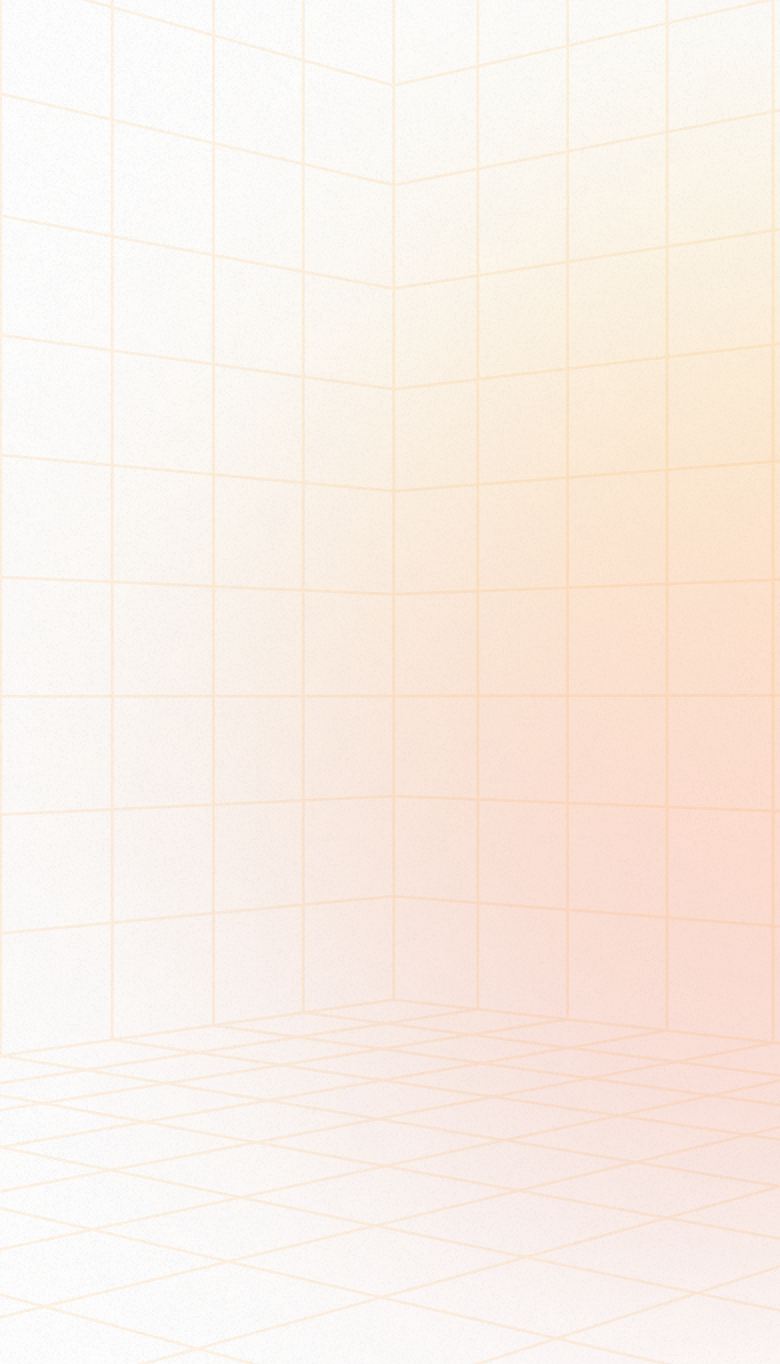
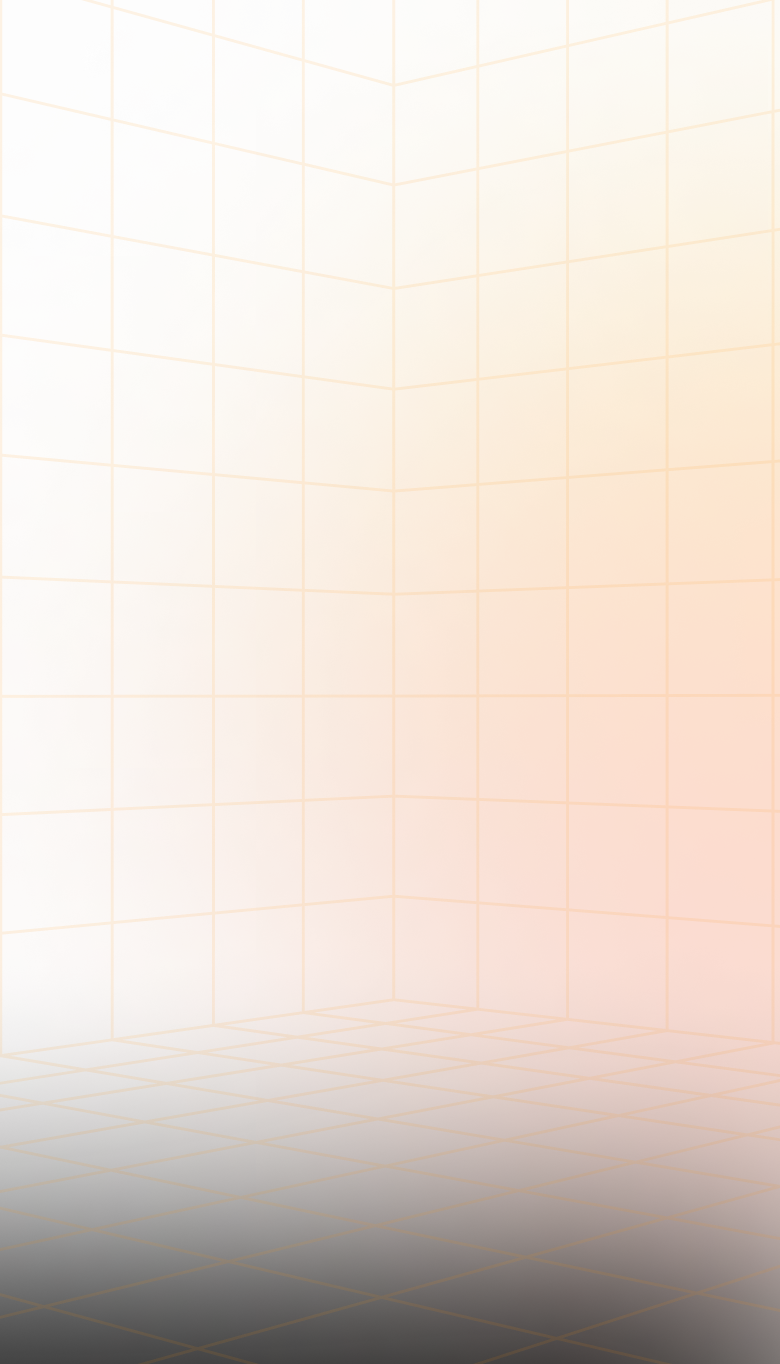
save

Changed region(s): [[0.0, 0.7698, 1.0, 1.0]]

diff --git a/src/app/home/get/index.jsx b/src/app/home/get/index.jsx
@@ -1,0 +1,56 @@
+import classNames from 'classnames';
+import style from './style.module.scss'
+import { Typography } from '@ui/Typography';
+import { Field } from '@ui/Field';
+import Image from 'next/image';
+
+import cardIcon from './img/card-coin.svg'
+import shildIcon from './img/shild.svg'
+
+const Get = () => {
+
+  return <section className={style.get}>
+    <div className="container">
+      <div className={style.body}>
+        <div className={classNames(style.card, style.head)}>
+          <div className="headLeft">
+            <Typography className={style.subtitle} variant='subtitle' tag='h3'>Get ONO</Typography>
+            <Typography variant='h2'>
+              Get ONO Easily
+            </Typography>
+          </div>
+
+          <Typography className={style.headDesc} variant='text-small' tag='p'>
+            Buying ONO is easy! Follow just three steps to get the cryptocurrency directly to your wallet. We have made the process as convenient and secure as possible.
+          </Typography>
+        </div>
+
+        <div className={classNames(style.card, style.card1)}>
+          <div className={style.cardTitle}>
+            <Image className={style.cardIcon} src={cardIcon} alt="card" width={52} height={52} />
+
+            <Typography variant='h3'>
+              Buy ONO
+            </Typography>
+          </div>
+
+          <div className={style.form}>
+            <div className={style.field}>
+              <Field required label='ONO amount' id='amount' placeholder='Enter amount in ONO' />
+              <Typography className={style.note} variant='text-small' tag='p'>
+                *Price per 1 ONO: 1.10 USDT
+              </Typography>
+            </div>
+
+            <div className={style.field}>
+              <Field required label='ONO wallet address' id='amount' placeholder='ONO wallet address' />
+            </div>
+          </div>
+        </div>
+        <div className={classNames(style.card, style.card2)}></div>
+      </div>
+    </div>
+  </section>
+}
+
+export default Get;

diff --git a/src/style/ui.scss b/src/style/ui.scss
@@ -41,7 +41,7 @@
     @include mixins.fluid(line-height, 33px, 27px, 390px, 1600px);
   }
   &.subtitle {
-    font-weight: 600;
+    font-weight: 400;
     letter-spacing: 0.12em;
     text-transform: uppercase;
     color: var(--orange);
@@ -178,5 +178,55 @@
     --font-size: 17px;
     --font-weight: 600;
     --line-height: 23px;
+  }
+}
+
+.field {
+  width: 100%;
+
+  label {
+    font-weight: 400;
+    color: #fef4ec;
+    display: inline-block;
+
+    @include mixins.fluid(font-size, 22px, 18px, 390px, 1600px);
+    @include mixins.fluid(margin-bottom, 8px, 4px, 390px, 1600px);
+  }
+
+  input {
+    border: 1px solid rgba(255, 255, 255, 0.05);
+    border-radius: 100px;
+    background: rgba(255, 255, 255, 0.03);
+    font-weight: 400;
+    line-height: 150%;
+    width: 100%;
+    color: var(--white);
+    transition: all 0.3s ease 0s;
+
+    @include mixins.fluid(font-size, 17px, 15px, 390px, 1600px);
+    @include mixins.fluid(padding, 17px, 15px, 390px, 1600px);
+
+    &:placeholder {
+      color: var(--gray);
+      opacity: 0.4;
+    }
+
+    &:focus {
+      border-color: #fff;
+    }
+
+    &.error {
+      border-color: var(--red);
+    }
+  }
+
+  .error {
+    display: inline-block;
+    font-weight: 400;
+    font-size: 15px;
+    color: var(--red);
+
+    @include mixins.fluid(font-size, 15px, 13px, 390px, 1600px);
+    @include mixins.fluid(margin-top, 8px, 4px, 390px, 1600px);
   }
 }

diff --git a/src/components/ui/Field.jsx b/src/components/ui/Field.jsx
@@ -1,0 +1,49 @@
+'use client'
+import { useState, useEffect } from "react"
+
+export const Field = ({
+  label,
+  value,
+  id,
+  onInput,
+  onChange,
+  ...props }) => {
+
+  const [inputValue, setInputValue] = useState(value || '')
+  const [error, setError] = useState(false)
+
+
+  const handleInput = (event) => {
+    const { target } = event
+    setInputValue(target.value)
+
+    if (onInput) {
+      onInput(event)
+    }
+  }
+
+  const handleChange = () => {
+    if (target.required && target.value.trim().length === 0) {
+      setError(true)
+    } else {
+      setError(false)
+    }
+
+
+    if (onChange) {
+      onInput(event)
+    }
+  }
+
+  useEffect(() => {
+    setInputValue(value);
+  }, [value]);
+
+  return <div className="field">
+    {label && <label htmlFor={id}>{label}</label>}
+    <input value={inputValue} onChange={handleChange} onInput={handleInput} id={id} type="text" {...props} />
+    {error && <span className="error">
+      This field is required to be filled in
+    </span>}
+  </div>
+}

diff --git a/src/app/home/get/style.module.scss b/src/app/home/get/style.module.scss
@@ -1,0 +1,51 @@
+.get {
+  background: url("./img/bg.png") center/ cover no-repeat;
+  background-color: #111;
+
+  @media (max-width: 768px) {
+    background: url("./img/bg-mob.png") center/ cover no-repeat;
+  }
+}
+.body {
+  display: grid;
+  grid-template-columns: repeat(2, 1fr);
+  grid-template-areas:
+    "head head"
+    "card1 card2";
+  gap: 20px;
+}
+.card {
+  border: 1px solid rgba(255, 255, 255, 0.08);
+  border-radius: 16px;
+  padding: 28px;
+  backdrop-filter: blur(250px);
+  background: rgba(26, 26, 26, 0.35);
+  display: flex;
+  flex-direction: column;
+  gap: 24px;
+}
+.head {
+  grid-area: head;
+  display: flex;
+  flex-direction: row;
+  justify-content: space-between;
+  align-items: flex-start;
+  gap: 8px;
+}
+.subtitle {
+  margin-bottom: 4px;
+}
+.headDesc {
+  color: var(--gray);
+  max-width: 460px;
+}
+.card1 {
+  grid-area: card1;
+}
+.card2 {
+  grid-area: card2;
+}
+.cardTitle {
+  display: flex;
+  gap: 12px;
+}

diff --git a/src/app/home/page.jsx b/src/app/home/page.jsx
@@ -3,6 +3,8 @@ import Main from './main'
 import About from './about'
 import Features from './features'
 import Earn from './earn'
+// import Get from './get'
+import Wallet from './wallet'
 import Footer from './footer'
 
 export default function Home() {
@@ -12,6 +14,7 @@ export default function Home() {
     <About />
     <Features />
     <Earn />
+    {/* <Get /> */}
     <Footer />
   </>
 }

diff --git a/src/app/home/main/style.module.scss b/src/app/home/main/style.module.scss
@@ -1,6 +1,5 @@
 .main {
   background: url("./img/bg.png") center/ cover no-repeat;
-  background-color: #0d0d0d;
   @include mixins.fluid(padding-top, 275px, 142px, 390px, 1600px);
   @include mixins.fluid(padding-bottom, 227px, 47px, 390px, 1600px);
 

diff --git a/src/style/main.scss b/src/style/main.scss
@@ -106,10 +106,11 @@ input {
 }
 
 body {
-  background: var(--black);
+  background: url("/img/bg.png") 0 0 / cover;
+  background-color: var(--black);
   color: var(--white);
 
-  &.lock{
+  &.lock {
     overflow: hidden;
   }
 }

diff --git a/src/app/home/about/style.module.scss b/src/app/home/about/style.module.scss
@@ -1,6 +1,5 @@
 .about {
   background: url("./img/bg.png") center/cover no-repeat;
-  background-color: rgba(17, 17, 17, 0.07);
 
   @media (max-width: 768px) {
     background: url("./img/bg-mob.png") center/ cover no-repeat;

diff --git a/src/app/home/wallet/index.jsx b/src/app/home/wallet/index.jsx
@@ -1,0 +1,5 @@
+const Wallet = () => {
+  return <></>
+}
+
+export default Wallet
